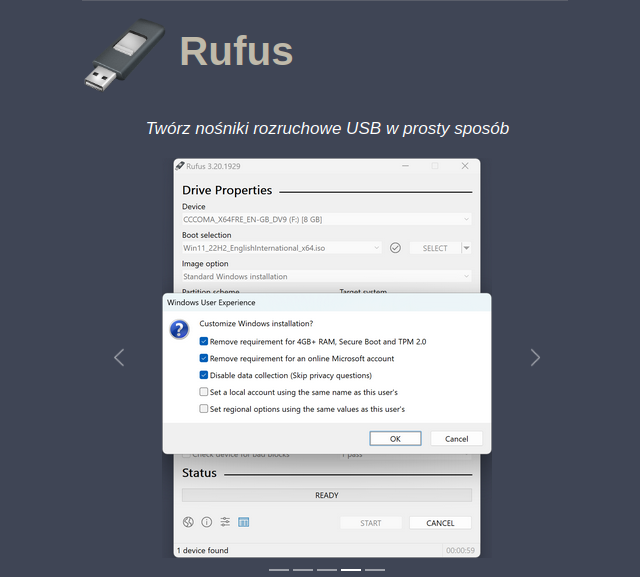
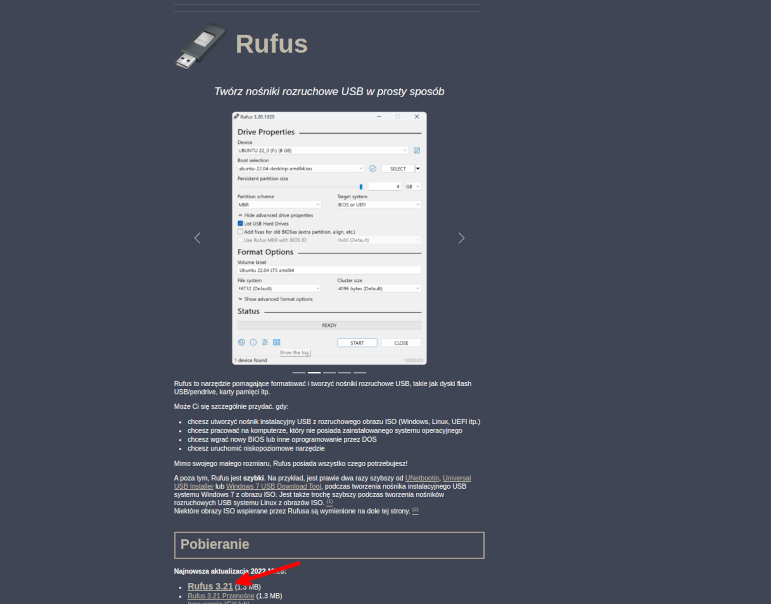
Strona ukończona 🥳🎉 Dziękuje wszystkim za pomoc i opinie ❤

diff --git a/dystrybucje/arch.htm b/dystrybucje/arch.htm
@@ -31,6 +31,13 @@
                     przez dużą ilość graficznych konfiguratorów, a poprzez przemyślnie rozmieszczone i zaprojektowane pliki konfiguracyjne, skrypty i programy. 
                     Dlatego też Arch Linux, mimo swojej prostoty, może nie być odpowiednim systemem dla osób niemających wcześniej styczności z GNU/Linuksem ani dla tych, 
                     dla których używanie konsoli oraz edycja plików tekstowych w celu zmiany ustawień mogą sprawiać problemy.
+                    <br><br>
+                    Inspiracją dla Judda Vineta była inna, wcześniejsza dystrybucja GNU/Linuksa – CRUX. Arch jest oparty na systemie pakietów binarnych kompilowanych dla architektur i686 oraz x86_64 
+                    zarządzanych przez specjalnie do tego zadania stworzony program o nazwie pacman. Umożliwia on instalację, aktualizację oraz usuwanie pakietów. Pakiety mogą być także budowane ze źródeł 
+                    przy pomocy ABS (Arch Linux Build System) – systemu podobnego do portów FreeBSD. Umożliwia on proste i szybkie budowanie pakietów i włączanie ich do systemu. Instalacja przebiega w trybie 
+                    tekstowym, a użytkownik może dokonać konfiguracji systemu edytując odpowiednie pliki.
+                    <br><br>
+                    Dostępne jest wydanie dedykowane architekturze ARM, działające m.in. na platformie Raspberry Pi. Arch stanowi podstawę dla wielu dystrybucji pochodnych, m.in. Manjaro. 
                 </div><br><br><br>
                 <h3>Inne oparte:</h3><hr><br><br>
                 <div>
@@ -38,10 +45,18 @@
                 
                     <h3>Manjaro</h3><hr><br>
                     Manjaro Linux (inna używana nazwa: Manjaro) – pochodna dystrybucja systemu operacyjnego Linux bazująca na dystrybucji Arch Linux.
-                <br><br>
-                    Instalator systemu operacyjnego wykorzystywany przez dystrybucję Manjaro nosi nazwę Calamares i został stworzony przez programistów: Rolanda Singera, Guillaume Benoit i Philipa Müllera. Od wersji 0.8.9 Manjaro Linux posiada pełne polskie tłumaczenie (składniki systemu operacyjnego i GUI użytkownika – pulpit).
+                    <br><br>
+                    Instalator systemu operacyjnego wykorzystywany przez dystrybucję Manjaro nosi nazwę Calamares i został stworzony przez programistów: Rolanda Singera, Guillaume Benoit i Philipa Müllera. 
+                    Od wersji 0.8.9 Manjaro Linux posiada pełne polskie tłumaczenie (składniki systemu operacyjnego i GUI użytkownika – pulpit).
+                    <br><br>
+                    Manjaro powstał w oparciu o dystrybucję Arch Linux, ale wykorzystuje własne repozytorium oprogramowania. Założeniem twórców dystrybucji jest przyjazność dla użytkownika, przy jednoczesnym 
+                    zachowaniu podstawowej kompatybilności z dystrybucją Arch Linux. W szczególności, podobnie jak Arch, Manjaro korzysta z menedżera pakietów Pacman i nieoficjalnego, dodatkowego repozytorium 
+                    oprogramowania AUR (skrót od: Arch User Repository).
+                    <br><br>
+                    Manjaro zawiera trzy oficjalne repozytoria oprogramowania: Stable – którego pakiety zostały sprawdzone i uznane za stabilne przez twórców dystrybucji; Testing – pakiety aktualnie testowane, 
+                    potencjalnie niestabilne; Unstable – pakiety nieprzetestowane i potencjalnie groźne dla prawidłowości działania systemu. 
                 </div>
-
+                <br><br><br>
                 <div>
                 <br> <br><img src="/obrazy/EndeavourOS_Xfce.webp" alt="EndeavourOS with XFCE" class="b"> 
                 <h3>EndeavourOS</h3><hr><br>
@@ -50,6 +65,19 @@
                 graficznych: Xfce, Budgie (środowisko graficzne), Cinnamon (środowisko graficzne), Deepin, GNOME, I3 (menedżer okien), 
                 KDE Plasma 5, LXQt i MATE.
                 <br><br>
+                Kiedy zespół Antergos ogłosił zakończenie projektu 21 maja 2019 r., Bryan Poerwoatmodjo, moderator Antergos, przedstawił pomysł utrzymania społeczności na nowym forum. Pomysł spotkał się z 
+                poparciem społeczności, tego samego dnia do Bryana dołączyli Johannes Kamprad, Fernando Omiechuk Frozi i Manuel.
+                <br>
+                Fernando Omiechuk Frozi stworzył już pochodny system od Antergos o nazwie Portergos z instalatorem offline oferującym pojedyncze środowisko graficzne oparte na Xfce.
+                <br>
+                Pierwotny plan zakładał użycie instalatora sieciowego Antergos Cnchi, który oferował dziewięć środowisk graficznych do wyboru, lecz z powodu trudności technicznych zespół zdecydował się uruchomić 
+                dystrybucję tylko z instalatorem offline opartym na Portergos, by w przyszłości wprowadzić instalator sieciowy.
+                <br>
+                W ciągu tygodnia zespół przedstawił plan społeczności i zaczął rozwijać dystrybucję, witrynę WWW i forum internetowe.
+                <br>
+                Kiedy pojawiły się problemy przy uruchomieniu instalatora Antergos Cnchi, zespół zaczął szukać zamiennika, który oferowałby taką samą wygodę GUI – zastosowano instalator Calamares, ponieważ ten 
+                obsługuje również instalacją sieciową. Zespół wymyślił plan stworzenia dystrybucji, która byłaby łatwa w utrzymaniu poprzez mały rozmiar repozytorium i oferującą doświadczenie bliskie Arch Linux 
+                z wygodą instalatora GUI. Ten plan wykluczał Pamac – popularną wersję GUI dla Pacmana, menedżera pakietów dla Arch Linux. 
                 </div>
             </article>
             <nav class="landscape">
@@ -62,7 +90,7 @@
   
             </nav>
             <nav class="mobile">
-              <h5><hr>| <a href="debian.htm" class="nav">Debian</a> | <a href="arch.htm" class="nav">Arch</a> | <a href="redhat.htm" class="nav">RedHat/Fedora</a> | <br>
+              <h5><hr>| <a href="debian.htm" class="nav">Debian</a> | <a href="arch.htm" class="nav">Arch</a> | <a href="redhat.htm" class="nav">RedHat/Fedora</a>
                  | <a href="inne.htm" class="nav">Inne Dystrybucje</a> |<hr></h5>  
             </nav>
         </div>

diff --git a/poradniki/instalacja-linuxa.htm b/poradniki/instalacja-linuxa.htm
@@ -33,32 +33,56 @@
                 
                 <div> 
                     <h2> Etap 1: Pobierz obraz ISO z strony Ubuntu</h2> 
-                    <h4>1. Wejdź na strone <a href="https://ubuntu.com/download/desktop" style="color: #c6dd60" target="_blank">https://ubuntu.com/download/desktop</a></h5>
-                        <h4>2. Pobierz iso</h5>
-                            <h4>3. Rozpocznij pobieranie</h5>
-                                <br><img src="/obrazy/il11.png" alt="ilustracja 1" class="c">
+                    <h4>1. Wejdź na strone <a href="https://ubuntu.com/download/desktop" style="color: #c6dd60" target="_blank">https://ubuntu.com/download/desktop</a></h4>
+                    <h4>2. Wybierz Ubuntu 22.10 i pobierz obraz ISO</h4>
+                            
+                                <br><img src="/obrazy/il1.png" alt="ilustracja 1" class="c">
                 </div>
 
                 
                 <div> <br><hr><br>
                     <h2>Etap 2: Pobierz narzędzie Rufus</h2>    
                     <h4>1. Wejdź na strone <a href="https://rufus.ie/pl/#" style="color: #c6dd60" target="_blank">https://rufus.ie/pl/#</a></h4>
-                        <h4>2. Rozpocznij pobieranie</h4>
-                            <br><img src="/obrazy/il22.png" alt="ilustracja 2" class="c"><br>
+                        <h4>2. Wybierz Rufus 3.21 i go pobierz</h4>
+                            <br><img src="/obrazy/il2.png" alt="ilustracja 2" class="c"><br>
                 </div>
                 
                 <div> <br><hr><br>
                     <h2>Etap 3: Wypalanie obrazu iso na pendrive</h2>    
-                    <h4>1. Wejdź na strone <a href="https://rufus.ie/pl/#" style="color: #c6dd60" target="_blank">https://rufus.ie/pl/#</a></h4>
-                        <h4>2. Rozpocznij pobieranie</h5>
-                            <br><img src="/obrazy/il3.png" alt="ilustracja 3" class="c"><br>
+                    <h4>1. Uruchom program Rufus</h4>
+                    <h4>2. W zakładce "Urządzenie" wybierz pendrive którego chcesz wykorzystać do instalacji Linuxa</h4>
+                    <h4>3. W zakładce "Wybór bootowania" wybierz "Dysk lub obraz ISO (Proszę wybrać)" i za pomocą przycisku "Wybierz" wskaż pobrany wcześniej obraz ISO Linuxa</h4>
+                    <h4>4. W zakładce "Schemat partycjowania" wybierz GPT dla nowszego komputera (posiadający UEFI), albo MBR dla starszych maszyn (BIOS)</h4>
+                    <h4>5. Naciśnij przycisk "START"</h4>
+                    
+                    <h2 style="color: rgb(255, 0, 0); background-color: white;">UWAGA: Operacja ta sformatuje twój pendrive, stracisz na nim WSZYSTKIE DANE! Przed instalacją skopiuj wszystkie pliki w bezpieczne miejsce.</h2>
+                    <br><img src="/obrazy/il3.png" alt="ilustracja 3" class="c" style="width: 20%;"><br>
                 </div>
             
                 <div> <br><hr><br>
-                    <h2>Etap 4: Zabootuj do Ubuntu na pendrive</h2>    
-                    <h4>1. Wejdź na strone <a href="https://rufus.ie/pl/#" style="color: #c6dd60" target="_blank">https://rufus.ie/pl/#</a></h4>
-                        <h4>2. Rozpocznij pobieranie</h5>
-                            <br><img src="/obrazy/il4.jpg" alt="ilustracja 4" class="c"><br>
+                    <h2>Etap 4: Uruchom instalator Ubuntu</h2>    
+                    <h4>1. Restartuj komputer i jak on będzie się włączał naciśnij F12 lub F11 (zależy od płyty głównej). Następnie na twoim ekranie powinineś ujrzeć Boot Menu</h4>
+                    <h4>2. Wybierz z listy USB HDD: xxxxxx (u ciebie może to inaczej wyglądać)</h4>
+                    <h4>3. Po chwili powinien pojawić się GNU Grub. Wybierz obcje "Ubuntu"</h4>
+                    <h4>4. Kliknij obcję "Instaluj Ubuntu"</h4>
+                    <br><img src="/obrazy/il4.png" alt="ilustracja 4" class="c"><br>
+                </div>
+                <div> <br><hr><br>    
+                    <h2>Etap 5: Instalacja Ubuntu</h2>
+                    <h4>1. Wybierz układ klawiatury (w tym przypadku polski "programisty")</h4>
+                    <br><img src="/obrazy/il5.png" alt="ilustracja 5" class="c"><br><hr>
+                    <h4>2. Wybierz czy chcemy zainstalować dodatkowe oprogramowenie (np. LibreOffice, Przeglądarka zdjęć, Aparat, Saper) oraz czy chcemy zainstalować niewolne, własnościowe sterowniki (Zalecanie dla kart graficznych Nvidia)</h4>
+                    <br><img src="/obrazy/il6.png" alt="ilustracja 6" class="c"><br><hr>
+                    <h4>3. Wybierz jak chcesz zainstalować Ubuntu: obok Windowsa (Dual Boot) lub zainstalować linuxa zamiast Windowsa (co skutkuje usunięciem wszystkich plików na dysku)</h4>
+                    <br><img src="/obrazy/il7.png" alt="ilustracja 7" class="c"><br>
+                    <h4>(Dla Dual Boot) Wybierz rozmiar dla linuxa (zalecane min. 20gb) oraz dysk na którym chcesz zainstalować Ubuntu. Na końcu kliknij "Instaluj"</h4>
+                    <br><img src="/obrazy/il8.png" alt="ilustracja 8" class="c"><br>
+                    <h4>4. Wypełnij podstawowe informacje (między innymi: nazwe użytkownika,hasło,strefe czasową) i czekaj aż instalacja dobiegnie końca</h4>
+                    <br><img src="/obrazy/il9.png" alt="ilustracja 9" class="c" ><br>
+                </div>
+                <div><br><hr><br>
+                    <h2>Gratulacje, zainstalowałeś Linuxa!</h2>
+                    <br><img src="/obrazy/Ubuntu_Gnome.png" alt="ilustracja 4" class="c" style="width: 50%;"><br>
                 </div>
             </article>
         </div>

diff --git a/dystrybucje/redhat.htm b/dystrybucje/redhat.htm
@@ -33,6 +33,15 @@
                 prace nad Fedorą w większym stopniu, niezależnie od Red Hata.
                 <br><br>
                 Fedora jest stosowana zarówno jako system operacyjny dla komputerów domowych, jak i serwerów. Nazwa dystrybucji pochodzi od rodzaju kapelusza.
+                <br><br>
+                Celem Fedora Project jest budowa w pełni użytecznego, nowoczesnego systemu operacyjnego w oparciu o wolne oprogramowanie, wydawanego cyklicznie dwa razy w roku, 
+                jako przedpole testowych rozwiązań wprowadzanych później do Red Hat Enterprise Linux. Deweloperzy Fedory wprowadzają do systemu wiele nowinek technicznych, które 
+                mogą powodować problemy ze stabilnością. System Fedora został jako jeden z pierwszych wyposażony w mechanizm zabezpieczeń SELinux, w wersji 9 pojawiło się wsparcie 
+                dla obsługi trybów graficznych w jądrze oraz obsługa systemu plików ext4.
+                <br><br>
+                Fedora Core powstała w wyniku wprowadzenia w roku 2003 nowej strategii działania firmy Red Hat. Celem nowej polityki było oddzielenie w pełni komercyjnej dystrybucji 
+                Linuksa, przeznaczonej dla przedsiębiorców Red Hat Enterprise Linux, od będącej jej polem testowym, skierowanej przede wszystkim dla użytkowników domowych 
+                (pozbawionej komercyjnego wsparcia), Fedory Core.  
             </div>
             <div>
                 <br> <br><img src="/obrazy/rhel_Gnome.png" alt="RHEL with Gnome" class="b"> 
@@ -58,7 +67,7 @@
   
             </nav>
             <nav class="mobile">
-              <h5><hr>| <a href="debian.htm" class="nav">Debian</a> | <a href="arch.htm" class="nav">Arch</a> | <a href="redhat.htm" class="nav">RedHat/Fedora</a> | <br>
+              <h5><hr>| <a href="debian.htm" class="nav">Debian</a> | <a href="arch.htm" class="nav">Arch</a> | <a href="redhat.htm" class="nav">RedHat/Fedora</a>
                  | <a href="inne.htm" class="nav">Inne Dystrybucje</a> |<hr></h5>  
             </nav>
         </div>

diff --git a/style.css b/style.css
@@ -1,5 +1,8 @@
 @import url('https://fonts.googleapis.com/css2?family=Lato&family=Moon+Dance&family=Rowdies&display=swap');
 @import url('https://fonts.googleapis.com/css2?family=Noto+Sans+JP&display=swap');
+html{
+    scroll-behavior: smooth;
+}
 body{
     background-color: #485696;
     font-family: 'Lato', sans-serif;
@@ -71,9 +74,17 @@ hr{
         height: fit-content;
         margin: 0px;
     }
+    #minimapa{
+        flex-direction: row;
+    }
+    .artykul{
+        width: calc(50vw/3);
+        max-width: calc(50vw/3);
+        height: 25vh;
+        max-height: 25vh;
+    }
+}    
 
-
-}
 
 
 
@@ -106,12 +117,23 @@ hr{
         color: #707BAB;
         border: 0px;
         font-size:medium;
+        margin-left: 30%;
+        margin-right: 30%;
     }
     img.tux{
         margin-left: 33%;
         margin-right: 33%;
         width: 33%;
-}
+    }
+    .artykul{
+        height: 25vh;
+        max-height: 25vh;
+        width: 35vw;
+        max-width: 35vw;
+    }
+    #minimapa{
+        flex-direction: column;
+    }
 }
 
 
@@ -188,24 +210,31 @@ a.domyslny{
     color: rgb(0, 255, 0);
 }
 
-#minimapa{
-    margin-left: 25%;
-    margin-right: 25%;
-    display: flex;
-    flex-direction:row;
-}
-.artykul{
-    border: 1px solid #707BAB;
-    border-radius: 15px;
-    padding: 15px;
-    margin: 15px;
-    text-align:center;
-    float:none;
-}
+
+
 .hide{
     visibility: hidden;
 }
 img.c{
     border: 1px solid #707BAB;
     border-radius: 15px;
+    width: 40%;
 }
+
+#minimapa{
+    display: flex;
+
+    justify-content: center;
+    align-items: center;
+}
+.artykul{
+    border: 1px solid #707BAB;
+    border-radius: 15px;
+    padding: 50px;
+    padding-bottom: 100px;
+    margin: 25px;
+    text-align:center;
+    display: inline-block;
+
+}
+

diff --git a/komendy/komendy.html b/komendy/komendy.html
@@ -22,7 +22,9 @@
 </header>
   <div id="mapa">
         <article>
+            <h3>Lista komend linuxowych:</h3> <hr>
             <div id="podstawowe">
+                <br>
                 <h4 style="color:#707BAB; text-align: center;">Podstawowe:</h4><hr><br><br>
                 <div id="sudo">
                     &emsp;<b style="font-size: 20px;">-&emsp;sudo</b>&emsp; Wykonuje zadanie z uprawnieniami roota (odpowiednik administratora w windowsie)
@@ -122,12 +124,13 @@
                 <br>
                 <a href="#podstawowe" class="nav">Podstawowe</a> <br><hr><br>
                 <a href="#dzalanianaplikach" class="nav">Działania na plikach</a> <br><hr><br>
-                <a href="" class="nav">...</a> <br><hr><br>
-                <a href="" class="nav">...</a>  
+                <a href="#kont" class="nav">Powrót na góre</a> <br> <!--<hr><br>
+                <a href="" class="nav">...</a>  -->
             </nav>
+            
             <nav class="mobile">
-              <h5><hr>| <a href="#podstawowe" class="nav">Podstawowe</a> | <a href="" class="nav">Działania na plikach</a> | <a href="" class="nav">....</a> | <br>
-                 | <a href="" class="nav">...</a> |<hr></h5>  
+              <h5><hr>| <a href="#podstawowe" class="nav">Podstawowe</a> | <a href="#dzalanianaplikach" class="nav">Działania na plikach</a> | <a href="#kont" class="nav">Powrót na góre</a> | <!-- <br>
+                 | <a href="" class="nav">...</a> |<hr></h5>  -->
             </nav>
         </div>
         <br>

diff --git a/index.html b/index.html
@@ -26,12 +26,13 @@
                <h1>Witaj na stronie Gnu/Linux! *</h1>
                Tutaj znajdziesz informacje dotyczące systemu operacyjnego jakim jest Gnu/Linux. Zastanawiało cię to dlaczego serwery używają linuxa? Na to i na inne podobne pytania znajdziesz tu odpowiedź! 
                Chcesz rozpocząć przygode z tym systemem? Tutaj znajdziesz poradnik jak zainstalować linuxa na swoim komputerze albo na maszynie wirtualnej, spis podstawowych poleceń terminala, oraz omówinenie różnych dystrybucji linuxa!
+               
             </article>
             <img src="/obrazy/gnulinux.png" class="tux" alt="tux">
         </div>
         <br>
         <footer>
-            <a href="/source.txt" target="_blank" style="color: #707BAB;">Copyleft <LEFT>&#127279;</LEFT> 2022-2023 Pawil: pawi1.github.io<br> * Ta strona NIE JEST oficjalną stroną Gnu/Linuxa etc.</a>
+            <a href="/source.txt" target="_blank" style="color: #707BAB;">Copyleft <LEFT>&#127279;</LEFT> 2022-2023 | Paweł Pawil Rutkowski 1E | : pawi1.github.io <br> * Ta strona NIE JEST oficjalną stroną Gnu/Linuxa etc.</a>
         </footer>
     </div>
 

diff --git a/dystrybucje/dystrybucje.html b/dystrybucje/dystrybucje.html
@@ -23,6 +23,7 @@
   
         <div id="mapa">
             <article>
+                <a href="/obrazy/Linux_Distribution_Timeline.svg.png" target="_blank"><img src="/obrazy/Linux_Distribution_Timeline.png" class="a" alt="distro"></a>
                 <h3>Dystrybucje Linuxa</h3> <hr>
                 Dystrybucja Linuksa – uniksopodobny kompletny system operacyjny zbudowany na bazie jądra Linux. Znakomita większość dystrybucji 
                 zawiera dużo elementów projektu GNU, co sprawia, że są one dystrybucjami GNU/Linuksa. W skład dystrybucji, oprócz samego jądra, 
@@ -43,7 +44,7 @@
   
             </nav>
             <nav class="mobile">
-              <h5><hr>| <a href="debian.htm" class="nav">Debian</a> | <a href="arch.htm" class="nav">Arch</a> | <a href="redhat.htm" class="nav">RedHat/Fedora</a> | <br>
+              <h5><hr>| <a href="debian.htm" class="nav">Debian</a> | <a href="arch.htm" class="nav">Arch</a> | <a href="redhat.htm" class="nav">RedHat/Fedora</a> 
                  | <a href="inne.htm" class="nav">Inne Dystrybucje</a> |<hr></h5>  
             </nav>
         </div>

diff --git a/poradniki/poradniki.html b/poradniki/poradniki.html
@@ -25,8 +25,10 @@
             <article>
                 <h3>Poradniki</h3><hr><br>
                 <div id="minimapa">
-                    <a href="instalacja-linuxa.htm"><div class="artykul"><img src="/obrazy/il4.jpg" alt="instalacja" class="c" style="width: 50%;"><h2>Jak zainstalować linuxa</h2> <br> Poradnik krok po kroku</div></a>
-                  
+
+                    <a href="instalacja-linuxa.htm"><div class="artykul"><img src="/obrazy/il9.png" alt="instalacja" class="c" ><h2>Jak zainstalować linuxa na przykładzie Ubuntu 22.10</h2> Poradnik krok po kroku</div></a>
+                    <a href="https://www.benchmark.pl/testy_i_recenzje/linux-20-porad-dla-poczatkujacych.html" target="_blank"><div class="artykul" ><img src="/obrazy/benchmark.jpg" alt="benchmark" class="c" ><h2>Jak to zrobić w Linux – 20 praktycznych porad dla początkujących</h2> (link zewnętrzny) </div></a>
+
                 </div>
 
             </article>

diff --git a/dystrybucje/inne.htm b/dystrybucje/inne.htm
@@ -70,7 +70,7 @@ Program pozwala na tworzenie obrazów partycji windowsowych, linuksowych i innyc
   
             </nav>
             <nav class="mobile">
-              <h5><hr>| <a href="debian.htm" class="nav">Debian</a> | <a href="arch.htm" class="nav">Arch</a> | <a href="redhat.htm" class="nav">RedHat/Fedora</a> | <br>
+              <h5><hr>| <a href="debian.htm" class="nav">Debian</a> | <a href="arch.htm" class="nav">Arch</a> | <a href="redhat.htm" class="nav">RedHat/Fedora</a>
                  | <a href="inne.htm" class="nav">Inne Dystrybucje</a> |<hr></h5>  
             </nav>
         </div>

diff --git a/dystrybucje/debian.htm b/dystrybucje/debian.htm
@@ -103,7 +103,7 @@
   
             </nav>
             <nav class="mobile">
-              <h5><hr>| <a href="debian.htm" class="nav">Debian</a> | <a href="arch.htm" class="nav">Arch</a> | <a href="redhat.htm" class="nav">RedHat/Fedora</a> | <br>
+              <h5><hr>| <a href="debian.htm" class="nav">Debian</a> | <a href="arch.htm" class="nav">Arch</a> | <a href="redhat.htm" class="nav">RedHat/Fedora</a>
                  | <a href="inne.htm" class="nav">Inne Dystrybucje</a> |<hr></h5>  
             </nav>
         </div>

diff --git a/README.md b/README.md
@@ -1,5 +1,4 @@
-# Strona gotowa w: 80%
-
+# Strona ukończona 🥳🎉
      ██████╗ ███╗   ██╗██╗   ██╗    ██╗██╗     ██╗███╗   ██╗██╗   ██╗██╗  ██╗                         
     ██╔════╝ ████╗  ██║██║   ██║   ██╔╝██║     ██║████╗  ██║██║   ██║╚██╗██╔╝                        
     ██║  ███╗██╔██╗ ██║██║   ██║  ██╔╝ ██║     ██║██╔██╗ ██║██║   ██║ ╚███╔╝                         
@@ -34,6 +33,30 @@ text - https://pl.wikipedia.org/wiki/Linux
 ### winalinux.htm:
 image - https://www.psychz.net/client/blog/en/in-comparison-windows-vs-linux.html#
 
+### poradniki.html:
+image - https://www.benchmark.pl/testy_i_recenzje/linux-20-porad-dla-poczatkujacych.html
+
+### dystrybucje.html:
+image - Autorstwa Andreas Lundqvist (initially), Muhammad Herdiansyah (continued), Fabio Loli (continued) - http://futurist.se/gldt/ (initially), https://github.com/konimex/linuxtimeline (continued), https://github.com/FabioLolix/LinuxTimeline (continued), GFDL 1.3, https://commons.wikimedia.org/w/index.php?curid=2556373
+text - https://pl.wikipedia.org/wiki/Dystrybucja_Linuksa
+
+### debian.htm:
+text - https://linux.fandom.com/pl/wiki/Debian
+       https://pl.wikipedia.org/wiki/Ubuntu
+       https://pl.wikipedia.org/wiki/Linux_Mint
+
+### arch.htm:
+text - https://pl.wikipedia.org/wiki/Arch_Linux
+       https://pl.wikipedia.org/wiki/Manjaro_Linux
+       https://pl.wikipedia.org/wiki/EndeavourOS
+
+### redhat.htm:
+text - https://pl.wikipedia.org/wiki/Fedora_(dystrybucja_Linuksa)
+       https://pl.wikipedia.org/wiki/Red_Hat_Enterprise_Linux
+
+### inne.htm:
+text - https://pl.wikipedia.org/wiki/Puppy_Linux
+       https://pl.wikipedia.org/wiki/Clonezilla
 
 ## 
 Shield: [![CC BY 4.0][cc-by-shield]][cc-by]
